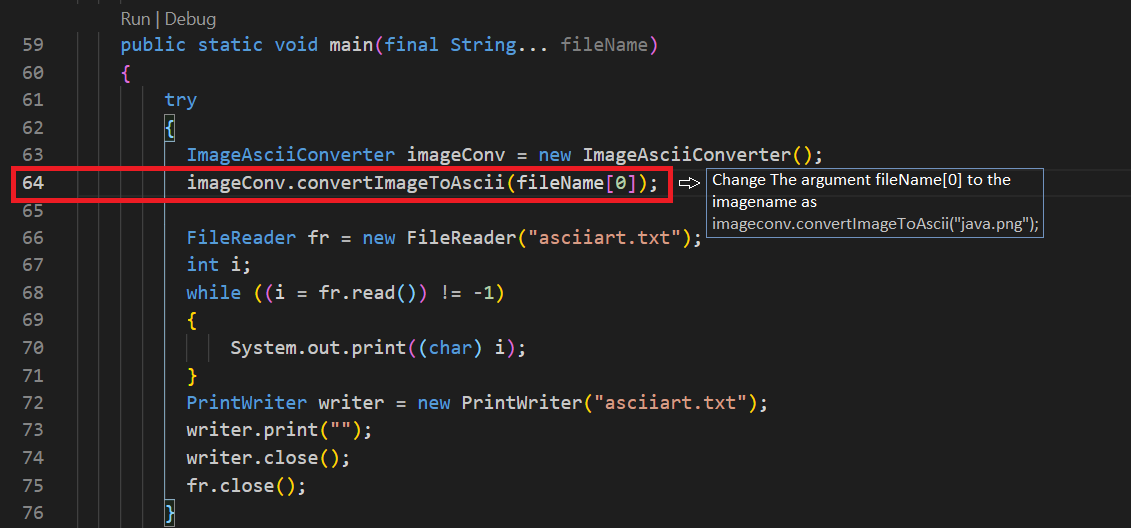
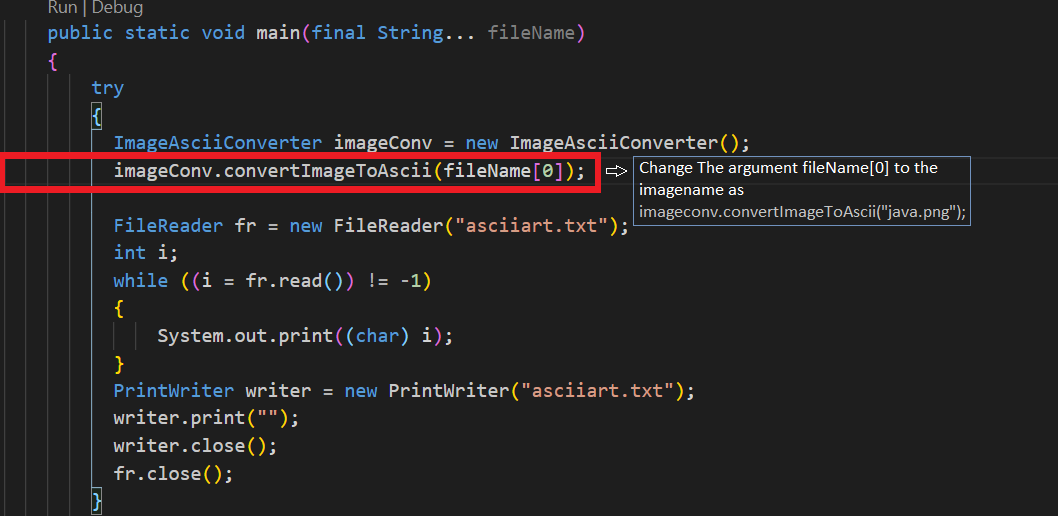
Fixed Typo Mistakes in Documentation

diff --git a/ImageAsciiConverter.java b/ImageAsciiConverter.java
@@ -14,9 +14,9 @@ import javax.imageio.ImageIO;
   *                       * (java.png is the image name of ur expecting image)
   *                       *  Load any image you're interested in (Make sure u are typing correct image name)
   *
-  *    -> If you expecting to Run this code in your preferred IDE, skip all other instruction and pass the image name directly in " line no 64 "
+  *    -> If you expecting to Run this code in your preferred IDE, skip all other instruction and pass the image name directly in " line no 65 "
   *                       * (i,e) remove fileName[0] and pass your arugument as your image FileName ('java.png") instead of fileName[0]
-  *            Example @Line 64 =====> imageConv.convertImageToAscii("java.png");
+  *            Example @Line 65 =====> imageConv.convertImageToAscii("java.png");
   *
   *    -> This program also supports single launch source file https://openjdk.java.net/jeps/330, Run the program directly with 
   *                1.)  java AsciiImageConverter.java java.png

diff --git a/README.md b/README.md
@@ -32,13 +32,13 @@
 <img src = "Demo-Files/Run.png" height = "" width = "840"  alt = "imageView Demo"/>
 </p>
 
-> If you expecting to Run this code in your preferred IDE, Instead of CLI, skip all other instruction and pass the image name directly in `line no 64` at `ImageAsciiConverter.java` file
+> If you expecting to Run this code in your preferred IDE, Instead of CLI, skip all other instruction and pass the image name directly in `line no 65` at `ImageAsciiConverter.java` file
   
-   (i,e) at line no : 64 remove fileName[0] and pass argument as your image name ('java.png") instead of fileName[0] 
+   (i,e) at line no : 65 remove fileName[0] and pass argument as your image name ('java.png") instead of fileName[0] 
 ```yaml
   Refer: Figure 3
 ```
-> @ Line 64 => imageConv.convertImageToAscii(`"java.png"`);
+> @ Line 65 => imageConv.convertImageToAscii(`"java.png"`);
 
 ## **Figure 3**
 <p align = "left">
